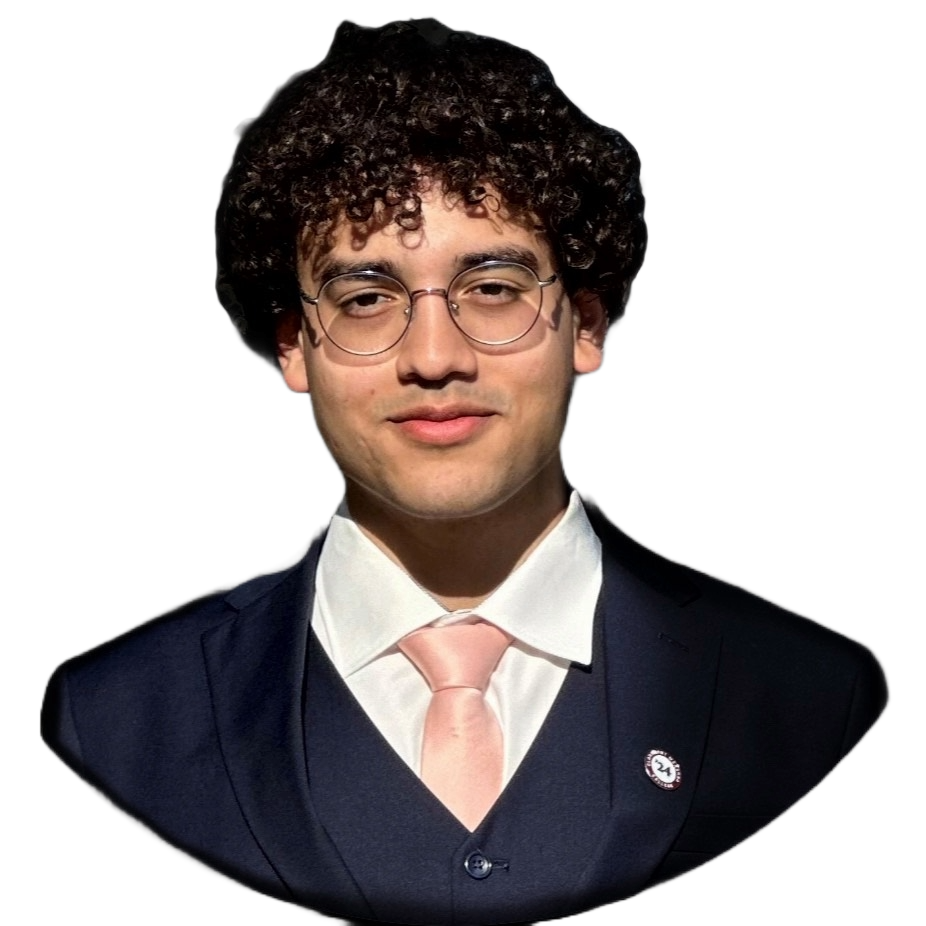
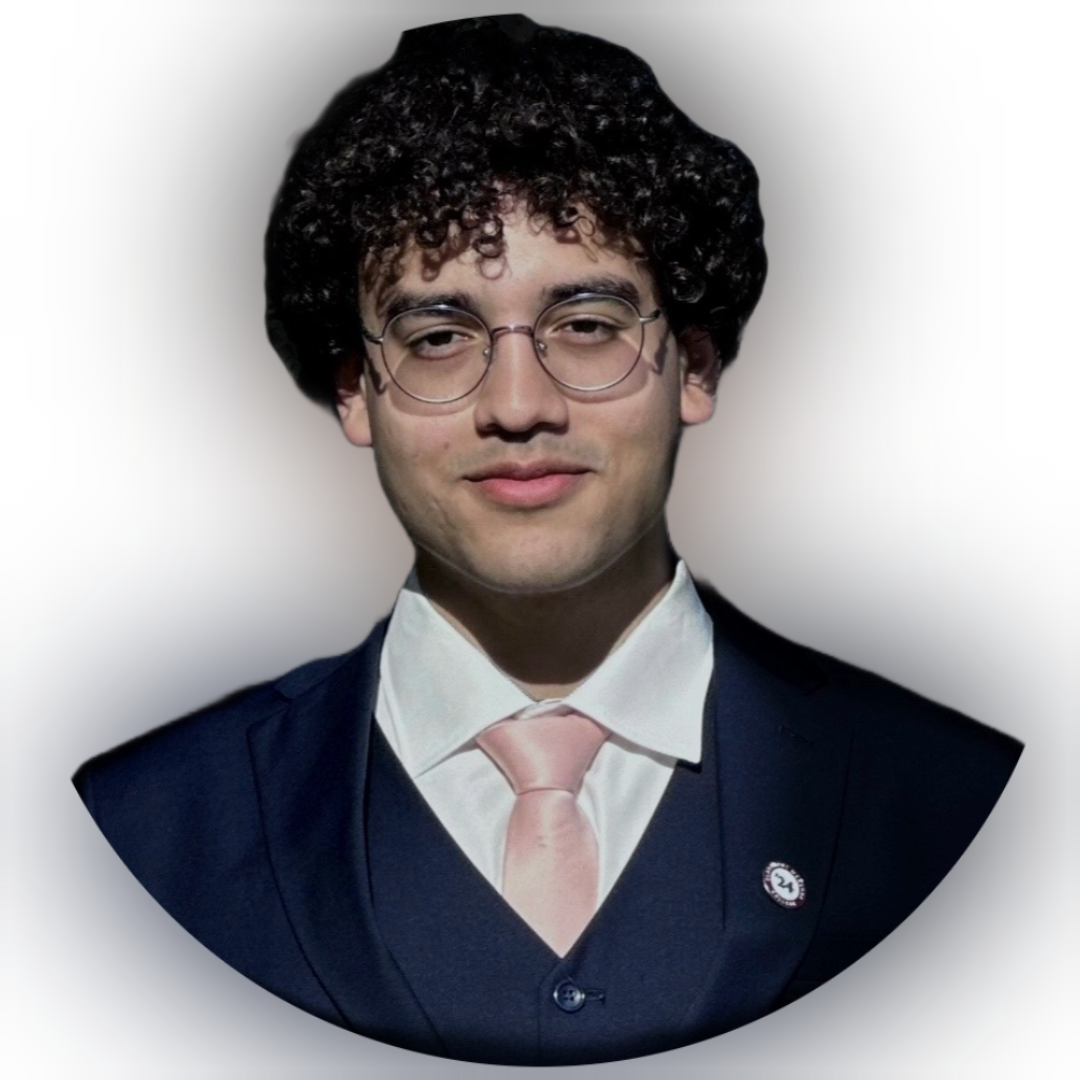
added photo and circle animation

diff --git a/components/Photo.jsx b/components/Photo.jsx
@@ -13,13 +13,14 @@ const Photo = () => {
           transition: { delay: 2, duration: 0.4, ease: "easeIn" },
         }}
       >
+        {/** photo */}
         <motion.div
           initial={{ opacity: 0 }}
           animate={{
             opacity: 1,
             transition: { delay: 2.4, duration: 0.4, ease: "easeInOut" },
           }}
-          className="w-[298px] h-[298px] xl:w-[498px] xl:h-[498px] mix-blend-lighter"
+          className="w-[298px] h-[298px] xl:w-[498px] xl:h-[498px] mix-blend-lighter absolute"
         >
           <Image
             src="/assets/photo.png"
@@ -30,6 +31,34 @@ const Photo = () => {
             className="object-contain"
           />
         </motion.div>
+
+        {/** circle */}
+        <motion.svg
+          className="w-[300px] xl:w-[506px] h-[300px] xl:h-[506px]"
+          fill="transparent"
+          viewBox="0 0 506 506"
+          xmlns="http://www.w3.org/2000/svg"
+        >
+          <motion.circle
+            cx="253"
+            cy="253"
+            r="250"
+            stroke="#00ff99"
+            strokeWidth="4"
+            strokeLinecap="round"
+            strokeLinejoin="round"
+            initial={{ strokeDasharray: "24 10 0 0" }}
+            animate={{
+              strokeDasharray: ["15 120 25 25", "16 25 92 72", "4 250 22 22"],
+              rotate: [120, 360],
+            }}
+            transition={{
+              duration: 20,
+              repeat: Infinity,
+              repeatType: "reverse",
+            }}
+          />
+        </motion.svg>
       </motion.div>
     </div>
   );

diff --git a/app/page.jsx b/app/page.jsx
@@ -11,7 +11,7 @@ const Home = () => {
       <div className="container mx-auto h-full">
         <div className="flex flex-col xl:flex-row items-center justify-between xl:pt-8 xl:pb-24">
           {/** text */}
-          <div className="text-center xl:text-left">
+          <div className="text-center xl:text-left order-2 xl:order-none ">
             <span className="text-xl ">Software Developer</span>
             <h1 className="h1 mb-6">
               Hello I'm <br />{" "}
@@ -42,7 +42,7 @@ const Home = () => {
             </div>
           </div>
           {/** photo */}
-          <div className="">
+          <div className="order-1 xl:order-none mb-8 xl:mb-0">
             <Photo />
           </div>
         </div>
